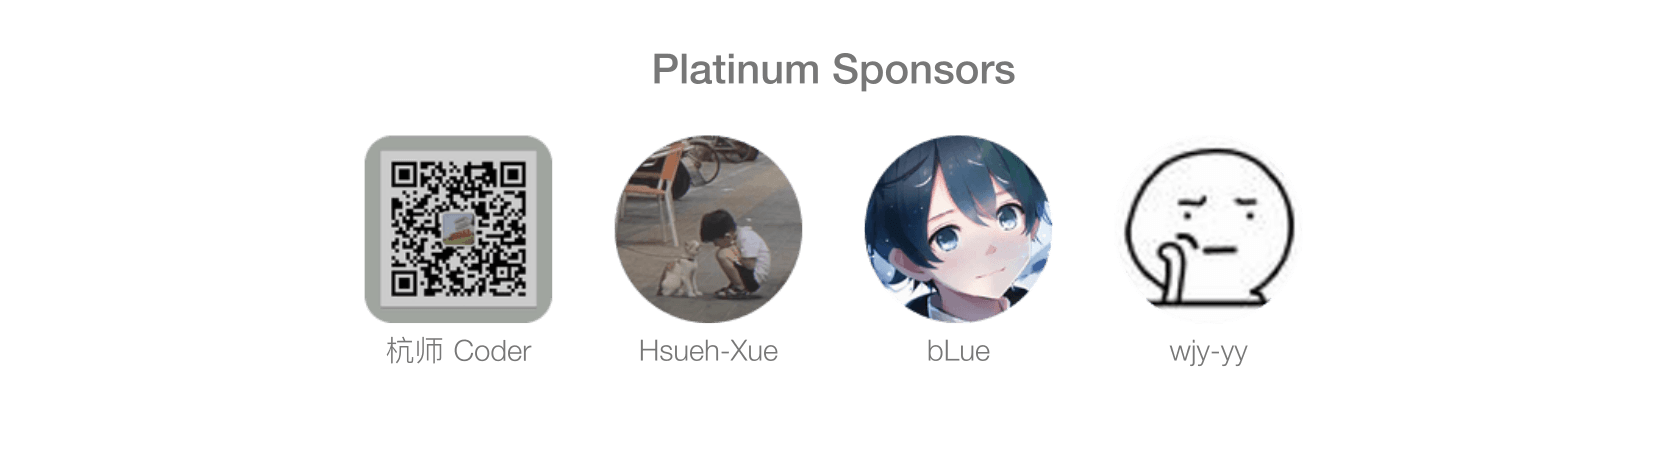
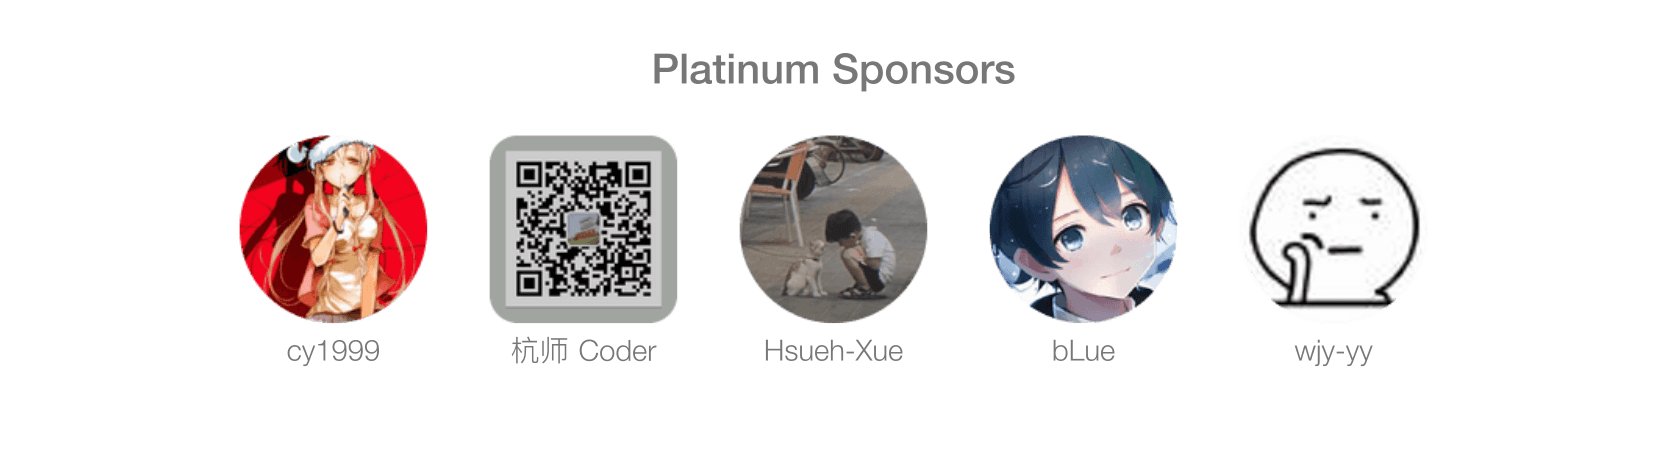
chore: add cy1999 (#4)

diff --git a/sponsorkit.config.ts b/sponsorkit.config.ts
@@ -68,6 +68,25 @@ export default defineConfig({
       sponsors.push(s);
     }
 
+    {
+      const s: Sponsorship = {
+        isOneTime: true,
+        provider: "github",
+        monthlyDollars: 70,
+        privacyLevel: "PUBLIC",
+        tierName: "$70 one time",
+        createdAt: "2024-06-03T13:30:00Z",
+        sponsor: {
+          type: "User",
+          login: "cy1999",
+          name: "cy1999",
+          avatarUrl: "http://localhost:8000/images/cy1999.jpg",
+        },
+      };
+
+      sponsors.push(s);
+    }
+
     return sponsors;
   },
   tiers: [
